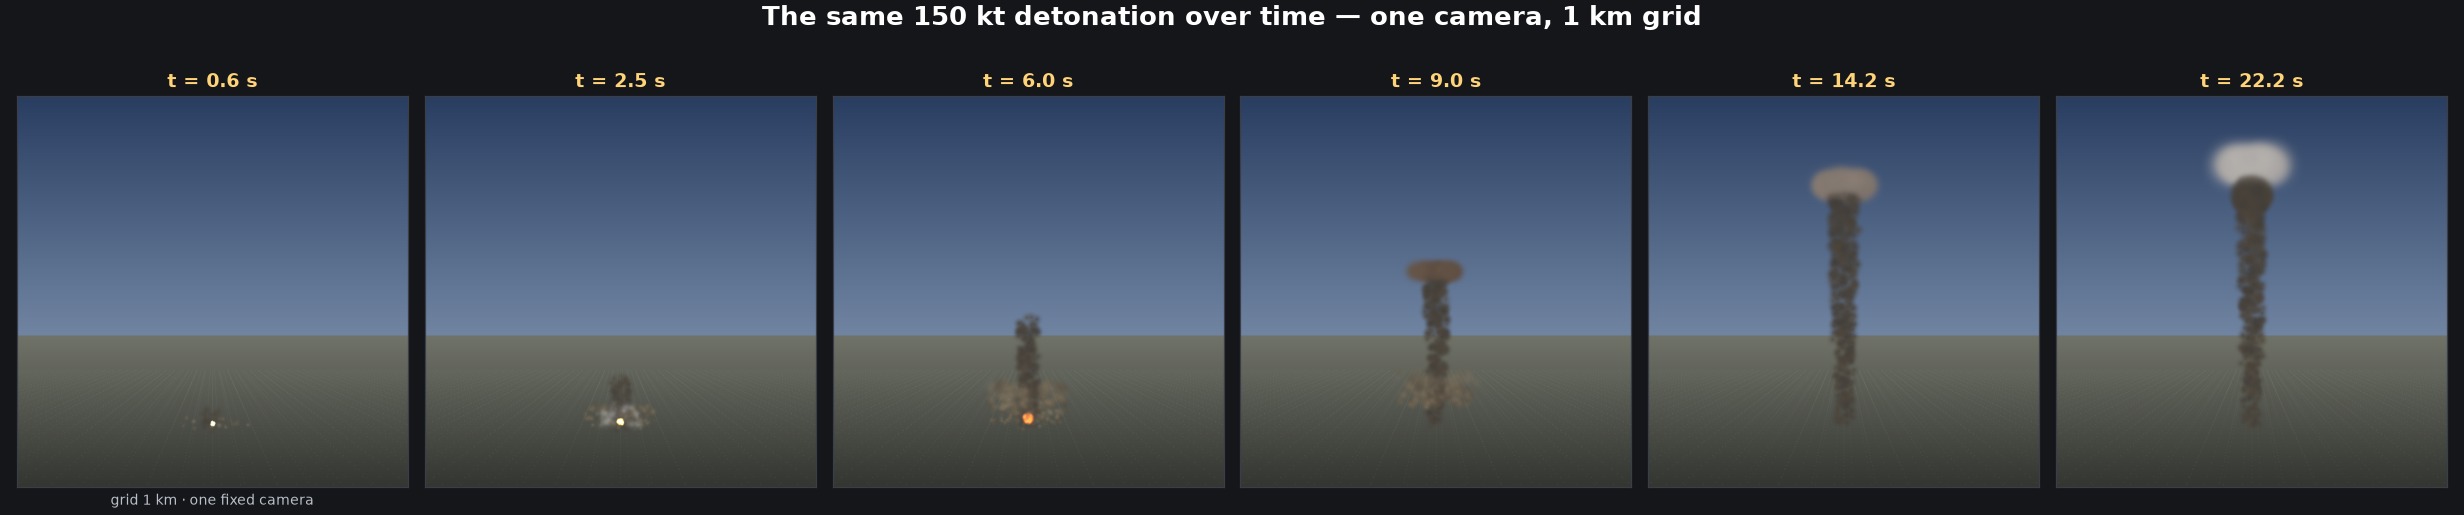
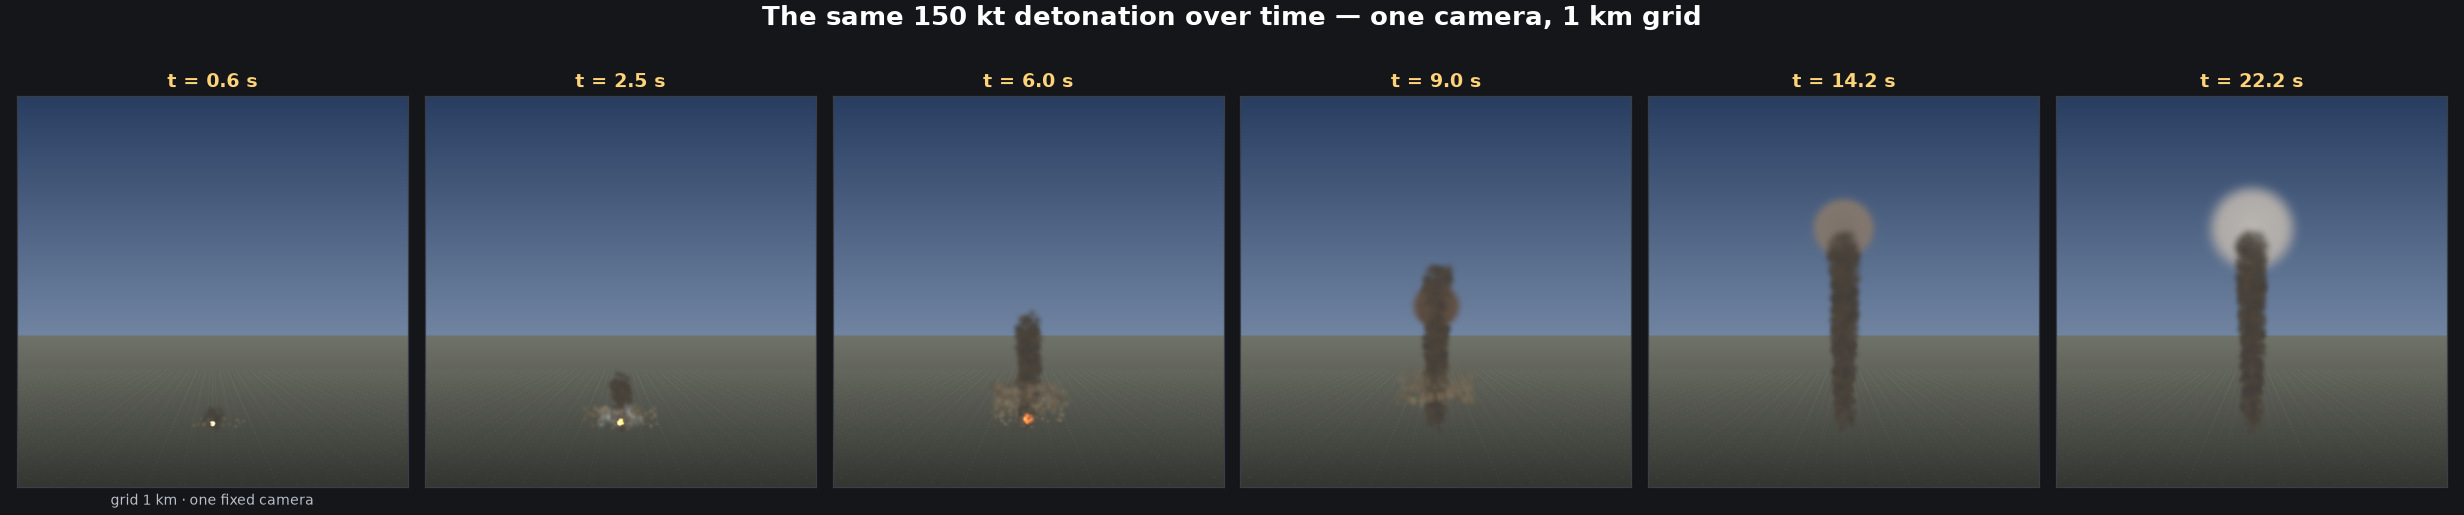
fix: put the canopy's base where the cloud actually stopped rising
The cap's depth was three tenths of the cloud top, a fixed fraction. Since its
width is also a function of the yield, that made the canopy exactly twice as
wide as it was deep at every yield - which is the one thing that cannot be true.
A 20 kt cap is a ball and a 10 Mt cap is a sheet, and the difference is not
decoration: it is where the cloud ran out of buoyancy.

Through the troposphere the air gets colder with height, so a fireball that
cools as it expands is still warmer than what surrounds it and keeps climbing.
At the tropopause the temperature stops falling and begins to rise; the cloud
goes on cooling while the air around it warms, loses its buoyancy within a
kilometre or two, and has nowhere to go but sideways. That lid is what spreads
a canopy flat, and it is what its base is.

So the base is half the cloud top, never above the 11 km mid-latitude
tropopause, and the cap is everything from there up. Against the measured tests
that gives base/top of 0.47 at 10.4 Mt and 0.40 at 50 Mt, where Ivy Mike was
0.46 and Castle Bravo 0.42; and it makes the canopy 0.9 times as wide as deep at
15 kt - a ball, which is what the 1945 photographs show - against 3.7 at 10 Mt.

Two consequences followed. The canopy is now centred half its depth below the
cloud top, so the cloud ends where the figures say it does instead of half a cap
above. And the column is spent as it enters the canopy rather than outliving the
[…]

Changed region(s): [[0.875, 0.2485, 0.9375, 0.6524], [0.7188, 0.3107, 0.7812, 0.4971], [0.5625, 0.4971, 0.5938, 0.6524]]

diff --git a/src/MissileDisaster/Game/Effects/NuclearMushroomFx.cs b/src/MissileDisaster/Game/Effects/NuclearMushroomFx.cs
@@ -41,10 +41,33 @@ namespace MissileDisaster.Game.Effects
         // canopy appears somewhere the column is not.
         private const float CapEmergeFraction = 0.55f;
 
-        // How deep the canopy is against the height of the whole cloud. Glasstone puts the base
-        // of the cap at about 0.7 of the altitude of its top, so the cap is the remaining three
-        // tenths - and that is a fraction of the column's height, not of the cap's own width.
-        private const float CapThicknessFraction = 0.30f;
+        // The tropopause, and the whole reason a mushroom is mushroom-shaped.
+        //
+        // Through the troposphere the air gets colder with height, so a fireball that cools as
+        // it expands is still warmer than what surrounds it and keeps climbing. At the
+        // tropopause the temperature stops falling and begins to rise, and the cloud runs into
+        // a lid: it goes on cooling as it climbs while the air around it warms, so its buoyancy
+        // is gone within a kilometre or two and it has nowhere left to go but sideways. That is
+        // what spreads the canopy out flat - the same lid that gives a thunderstorm its anvil.
+        //
+        // So the base of the cap is not a fixed fraction of anything. It is the tropopause, for
+        // any cloud with the energy to punch through - and about half the cloud's height for a
+        // small one that tops out inside the troposphere and stays a rising ball. Both are
+        // Glasstone's; the two together are why a 20 kt cap is round and a megaton cap is a
+        // sheet. A fixed fraction gets a 20 kt cap half again too flat and a 10 Mt cap twice too
+        // flat, which is exactly what it was doing.
+        //
+        // 11 km is the mid-latitude tropopause, where most of the charts the model is fitted to
+        // were measured. It is higher over the tropics - the Pacific tests punched through at
+        // nearer 17 km - which is part of why their canopies spread wider than the fit expects.
+        private const float TropopauseAltitude = 11000f;
+
+        // How far up the cloud the canopy's underside sits.
+        private static float CapBase(float top)
+        {
+            float half = top * 0.5f;
+            return half < TropopauseAltitude ? half : TropopauseAltitude;
+        }
 
         // How many particles the column is allowed at once. It has to stand for the whole shot,
         // so this is what its emission rate is solved from rather than a rate being picked and
@@ -56,9 +79,9 @@ namespace MissileDisaster.Game.Effects
         // rising into it.
         private const float CapLifetimeMin = 18f;
 
-        // How far up the column climbs, against the cloud top: to the underside of the canopy,
-        // which is half the cap's depth below its middle.
-        private const float StemTopFraction = 1f - CapThicknessFraction * 0.5f;
+        // How far into the canopy's depth the column runs before it is spent.
+        private const float StemIntoCapFraction = 0.3f;
+
 
         // Colours, following how a real detonation looks rather than a palette: white hot, then
         // sodium yellow, then orange, then the brown of nitrogen dioxide and lofted earth.
@@ -104,11 +127,26 @@ namespace MissileDisaster.Game.Effects
                 float capLifetime = Mathf.Max(CapLifetimeMin, d.RiseSeconds * 0.8f);
                 float showSeconds = d.RiseSeconds * CapEmergeFraction + capLifetime;
 
+                // Where the canopy sits: from its base up to the cloud top, with its particles
+                // centred half its depth below that top so the cloud ends where the figures say
+                // it does. The column climbs to the underside and stops there.
+                float capBase = CapBase(d.CloudTop);
+                float capDepth = d.CloudTop - capBase;
+                float capCentre = d.CloudTop - capDepth * 0.5f;
+                // The column runs a little way into the canopy's underside rather than stopping
+                // dead at it. A round billboard fades from its middle outwards, so a cap whose
+                // particles sit at its centre only looks solid across the middle of its depth:
+                // a column that stops at the nominal underside stops short of anything visible,
+                // and leaves a gap between the two. The stem's own fade is what keeps this from
+                // drawing a dark line up the front of the cap.
+                float stemTop = capBase + capDepth * StemIntoCapFraction;
+
                 CreateFireball(detonation, d.FireballRadius, d.FireballSeconds);
                 CreateCondensationDome(detonation, d.FireballRadius * CondensationRadiusFactor, d.FireballSeconds);
                 CreateGroundDust(groundZero, d.StemRadius, d.RiseSeconds);
-                CreateStem(groundZero, d.StemRadius, d.CloudTop, d.RiseSeconds, showSeconds);
-                CreateCap(groundZero, d.CapRadius, d.CloudTop, d.RiseSeconds, capLifetime, airburst);
+                CreateStem(groundZero, d.StemRadius, d.CloudTop, stemTop, d.RiseSeconds, showSeconds);
+                CreateCap(groundZero, d.CapRadius, capCentre, capDepth, d.CloudTop, d.RiseSeconds,
+                    capLifetime, airburst);
             }
             catch (Exception e)
             {
@@ -219,10 +257,15 @@ namespace MissileDisaster.Game.Effects
         /// cloud finished rising, after which the column drained away upwards and left the cap
         /// standing over clear air with its base several kilometres off the ground.
         /// </summary>
-        private static void CreateStem(Vector3 groundZero, float stemR, float top, float rise,
-            float showSeconds)
+        private static void CreateStem(Vector3 groundZero, float stemR, float top, float climbTo,
+            float rise, float showSeconds)
         {
-            float life = rise + 8f; // a particle stands well after it has finished rising
+            // A particle climbs into the canopy and is spent there. Letting it outlive the climb
+            // by much only piles every particle that ever rose into one dark knot under the cap,
+            // since they all stop at the same height; the column is a conveyor, and what reaches
+            // the top is absorbed. The tail is what fades it into the canopy's underside.
+            float climb = rise * (climbTo / top);
+            float life = climb * 1.35f;
             // Where the particles are born and how large they have grown by the end have to add
             // up to stemR, exactly as the canopy's do to capR. Emitting them over the full stemR
             // and then growing each one to nearly as wide again drew a column 1.9 times the one
@@ -247,9 +290,10 @@ namespace MissileDisaster.Game.Effects
             // a burst at the start and then a starved column once the ceiling is hit.
             ParticleBuilder.Stream(ps, StemMaxParticles * 0.95f / life);
             ParticleBuilder.Sphere(ps, emitRadius);
-            // It stops under the canopy rather than at the cloud top, so the column runs up into
-            // the cap's underside instead of out through the top of it.
-            ParticleBuilder.Rise(ps, ClimbThenSettle(rise * StemTopFraction, life), top / rise);
+            // It climbs at the rate the cloud climbs, and stops at the canopy's underside. Not
+            // at its middle: the column is dark and the canopy is pale, so a column that carries
+            // on into the cap is drawn straight through the front of it.
+            ParticleBuilder.Rise(ps, ClimbThenSettle(climb, life), top / rise);
             ParticleBuilder.Fade(ps,
                 new GradientAlphaKey(0.6f, 0f), new GradientAlphaKey(0.85f, 0.25f),
                 new GradientAlphaKey(0.7f, 0.7f), new GradientAlphaKey(0f, 1f));
@@ -269,37 +313,35 @@ namespace MissileDisaster.Game.Effects
         /// it used to be - hangs a finished canopy in clear air seconds before the stem arrives
         /// under it, which is the one thing that gives the effect away as particles.
         ///
-        /// How deep it is comes from the cloud top rather than from its own width. Glasstone puts
-        /// the base of the cap at about 0.7 of the altitude of its top, which makes the canopy
-        /// three tenths of the column deep whatever the yield. Taking the depth from the width
-        /// instead - which is what falls out of sizing the particles off capR - is right at
-        /// 150 kt only by coincidence, and by 10 Mt gives a canopy three times too deep: a ball
-        /// on a stick rather than the flattened lens a megaton cloud spreads out along the
-        /// tropopause.
+        /// How deep it is is decided by the tropopause - see TropopauseAltitude. Its own width has
+        /// nothing to say about it, and taking the depth from the width, which is what falls out
+        /// of sizing the particles off capR, gives a 10 Mt canopy three times too deep: a ball on
+        /// a stick rather than the sheet a megaton cloud spreads out along the tropopause.
         /// </summary>
-        private static void CreateCap(Vector3 groundZero, float capR, float top, float rise,
-            float lifetime, bool airburst)
+        private static void CreateCap(Vector3 groundZero, float capR, float capCentre,
+            float capDepth, float top, float rise, float lifetime, bool airburst)
         {
             const float emitFraction = 0.35f; // where the particles start, as a fraction of capR
             const float growth = 1.6f;        // how much larger a particle is by the end of its life
 
-            // The canopy is a flat lens: a round billboard grown to the cap's depth, spread
-            // across a horizontal disc until the three together - where it starts, how far it
-            // spreads and how large it has grown - add up to capR.
-            float thickness = top * CapThicknessFraction;
-            float spriteRadius = thickness * 0.5f;
+            // A round billboard grown to the cap's depth, spread across a horizontal disc until
+            // the three together - where it starts, how far it spreads and how large it has
+            // grown - add up to capR.
+            float spriteRadius = capDepth * 0.5f;
             float emitRadius = Mathf.Min(capR * emitFraction, Mathf.Max(0f, capR - spriteRadius));
             float driftDistance = Mathf.Max(0f, capR - emitRadius - spriteRadius);
             float driftSpeed = driftDistance / lifetime;
             // Enough of them to cover the disc several times over at any yield: a 10 Mt canopy is
-            // six times wider against its own depth than a 150 kt one, so a fixed count that
+            // four times wider against its own depth than a 20 kt one, so a fixed count that
             // reads as solid at one would be gauze at the other.
             float cover = capR / Mathf.Max(spriteRadius, 1f);
             int count = Mathf.Clamp(Mathf.RoundToInt(8f * cover * cover), 100, 400);
 
-            // The head of the column when the cap starts to swell, and the climb left to do.
+            // The head of the column when the cap starts to swell, and the climb left to do. It
+            // climbs at the cloud's own rate and settles at the canopy's middle.
             float delay = rise * CapEmergeFraction;
-            float birthHeight = top * CapEmergeFraction;
+            float birthHeight = capCentre * CapEmergeFraction;
+            float climbSeconds = (capCentre - birthHeight) / (top / rise);
 
             var go = ParticleBuilder.NewSystem("NuclearCap", groundZero + Vector3.up * birthHeight,
                 ParticleAssets.Smoke);
@@ -319,7 +361,7 @@ namespace MissileDisaster.Game.Effects
             // as cauliflower rather than as an airbrushed lens: a real cap is a crowd of lobes
             // of visibly different sizes. The largest is the one the depth was solved for, so
             // the spread runs downwards from it and the canopy keeps the depth it was given.
-            float sizeMax = thickness / growth;
+            float sizeMax = capDepth / growth;
             main.startSize = new ParticleSystem.MinMaxCurve(sizeMax * 0.55f, sizeMax);
             main.startColor = new ParticleSystem.MinMaxGradient(CapVapour, CapVapourShade);
             main.maxParticles = 500;
@@ -327,7 +369,7 @@ namespace MissileDisaster.Game.Effects
 
             ParticleBuilder.Burst(ps, count);
             ParticleBuilder.FlatDisc(ps, emitRadius);
-            ParticleBuilder.Rise(ps, ClimbThenSettle(rise - delay, lifetime), top / rise);
+            ParticleBuilder.Rise(ps, ClimbThenSettle(climbSeconds, lifetime), top / rise);
             ParticleBuilder.Colour(ps, CapGradient(airburst));
             ParticleBuilder.SizeCurve(ps, 0.7f, growth);
             ParticleBuilder.PlayAndDestroy(go, delay + lifetime + 2f);

diff --git a/tools/effect-preview/fxlib.py b/tools/effect-preview/fxlib.py
@@ -219,7 +219,9 @@ def show_seconds(d):
 
 def stage_stem(d, t, origin=(0, 0, 0)):
     stemR, top, rise = d["stem"], d["top"], d["rise"]
-    life = rise + 8.0
+    g = cap_geometry(d)
+    climb = rise * ((g["base"] + (g["centre"] - g["base"]) * 0.6) / top)
+    life = climb * 1.35
     born, age = _stream(STEM_MAX * 0.95 / life, show_seconds(d), t, life)
     n = len(age)
     if n == 0: return None
@@ -229,7 +231,7 @@ def stage_stem(d, t, origin=(0, 0, 0)):
     step = np.array([travel(stemR * 0.02, a) for a in age])
     p = p + v * step[:, None]
     # climbs to the underside of the canopy and stops, instead of out through the top of it
-    p[:, 1] += np.array([_climb(a, rise * (1 - THICKNESS * 0.5), life, top / rise) for a in age])
+    p[:, 1] += np.array([_climb(a, climb, life, top / rise) for a in age])
     u = age / life
     alpha = np.array([ramp([(0.0, 0.6), (0.25, 0.85), (0.7, 0.7), (1.0, 0.0)], x) for x in u])
     base = np.array([mix(DUST_DARK[:3], CAP_COOL[:3], x) for x in rng.random(n)])
@@ -283,7 +285,10 @@ def stage_cap_thick(d, t, origin=(0, 0, 0), n=100):
     u = age / lifetime
     p, v = in_cone(n, capR * emit_f, 62.0)
     p = p + v * (drift * age)
-    p[:, 1] += top * EMERGE + _climb(age, rise - delay, lifetime, top / rise)
+    # placed exactly as the new one is, so the figure isolates the depth and nothing else
+    centre = top - capR * 1.01 * 0.5
+    birth = centre * EMERGE
+    p[:, 1] += birth + _climb(age, (centre - birth) / (top / rise), lifetime, top / rise)
     p[:, 1] -= 0.5 * 9.81 * 0.015 * age ** 2
     alpha = ramp([(0.0, 0.6), (0.25, 0.85), (0.7, 0.7), (1.0, 0.0)], u) * 0.72
     base = np.array([mix(CAP_WARM[:3], CAP_COOL[:3], x) for x in rng.random(n)])
@@ -292,7 +297,13 @@ def stage_cap_thick(d, t, origin=(0, 0, 0), n=100):
     return p + np.array(origin), np.full(n, size), rgba, False
 
 
-THICKNESS = 0.30   # CapThicknessFraction - Glasstone: the cap's base at 0.7 of its top
+TROPOPAUSE = 11000.0   # TropopauseAltitude - the lid the canopy spreads out under
+
+
+def cap_base(top):
+    """The canopy's underside: the tropopause once the cloud punches through, half the
+    cloud's height while it is still inside the troposphere."""
+    return min(top * 0.5, TROPOPAUSE)
 
 
 def in_disc(n, radius):
@@ -308,14 +319,16 @@ def cap_geometry(d):
     capR, top = d["cap"], d["top"]
     lifetime = max(18.0, d["rise"] * 0.8)
     growth = 1.6
-    thickness = top * THICKNESS
+    base = cap_base(top)
+    thickness = top - base
+    centre = top - thickness * 0.5
     sprite_r = thickness * 0.5
     emit_r = min(capR * 0.35, max(0.0, capR - sprite_r))
     drift = max(0.0, capR - emit_r - sprite_r)
     cover = capR / max(sprite_r, 1.0)
     count = int(min(400, max(100, round(8 * cover * cover))))
     return dict(lifetime=lifetime, growth=growth, thickness=thickness, sprite_r=sprite_r,
-                emit_r=emit_r, drift=drift, count=count)
+                emit_r=emit_r, drift=drift, count=count, base=base, centre=centre)
 
 
 def stage_cap(d, t, origin=(0, 0, 0), n=None, airburst=False):
@@ -332,7 +345,8 @@ def stage_cap(d, t, origin=(0, 0, 0), n=None, airburst=False):
     speed = rng.random(n) * (g["drift"] / lifetime)
     p = p + v * (speed * age)[:, None]
     # born at the head of the column, riding the rest of the way up with it
-    p[:, 1] += top * EMERGE + _climb(age, rise - delay, lifetime, top / rise)
+    birth = g["centre"] * EMERGE
+    p[:, 1] += birth + _climb(age, (g["centre"] - birth) / (top / rise), lifetime, top / rise)
     p[:, 1] -= 0.5 * 9.81 * 0.015 * age ** 2             # the rim droops
     alpha = ramp([(0.0, 0.6), (0.25, 0.85), (0.7, 0.7), (1.0, 0.0)], u) * 0.72
     born = CAP_TINT_AIR if airburst else CAP_TINT_DUST

diff --git a/tools/effect-preview/render.py b/tools/effect-preview/render.py
@@ -232,15 +232,14 @@ def render_cap_shape(w=660, h=620):
             if row == 0:
                 ax.set_title(f"{name} — {kt:,} kt\ncap {km(d['cap']*2)} wide, top {km(d['top'])}",
                              color="#ffd479", fontsize=12, fontweight="bold", pad=8)
-            ax.set_xlabel(f"cap depth {km(thick)}   ({thick/(0.3*d['top']):.1f}× Glasstone's "
-                          f"{km(0.3*d['top'])})", fontsize=9.5,
-                          color="#d9a06a" if row == 0 else "#8fd6a6")
+            ax.set_xlabel(f"cap depth {km(thick)} · {d['cap']*2/thick:.1f}× wider than deep",
+                          fontsize=9.5, color="#d9a06a" if row == 0 else "#8fd6a6")
     for row, label, colour in (
             (0, "BEFORE — depth from the cap's own width", "#d9a06a"),
-            (1, "AFTER — depth from the cloud top (0.3 × top)", "#8fd6a6")):
+            (1, "AFTER — from the tropopause: base at half the top", "#8fd6a6")):
         axes[row, 0].text(-0.09, 0.5, label, transform=axes[row, 0].transAxes, rotation=90,
                           va="center", ha="center", fontsize=11.5, fontweight="bold", color=colour)
-    fig.suptitle("How deep the canopy is — Glasstone puts its base at 0.7 of the cloud top",
+    fig.suptitle("How deep the canopy is — its base is where the cloud stops rising",
                  color="#ffffff", fontsize=18, fontweight="bold", y=0.98)
     fig.tight_layout(rect=[0.012, 0.01, 1, 0.93])
     fig.subplots_adjust(hspace=0.16)

diff --git a/docs/effects/README.md b/docs/effects/README.md
@@ -36,10 +36,39 @@ top it hung finished in clear air for several seconds before the stem arrived un
 
 ## `cap-shape.png`
 
-Why the canopy's depth now comes from the cloud top rather than from its own width. Glasstone
-puts the base of the cap at about 0.7 of the altitude of its top, so a cap is three tenths of
-the column deep at any yield. Sizing its particles off the cap radius instead happens to be
-right at 150 kt and is 3.3× too deep by 10 Mt — a ball on a stick rather than a lens.
+Why the canopy's depth comes from where the cloud stopped rising rather than from its own
+width. Sizing the particles off the cap radius made the cap exactly twice as wide as it was
+deep at *every* yield — the one thing that cannot be true, since a 20 kt cap is a ball and a
+10 Mt cap is a sheet.
+
+## The tropopause, and why a mushroom is mushroom-shaped
+
+Through the troposphere the air gets colder with height, so a fireball that cools as it expands
+is still warmer than what surrounds it and keeps climbing. At the tropopause the temperature
+stops falling and begins to rise: the cloud goes on cooling as it climbs while the air around it
+warms, loses its buoyancy within a kilometre or two, and has nowhere left to go but sideways.
+That lid is what spreads the canopy flat — the same one that gives a thunderstorm its anvil.
+
+So the canopy's base is where the cloud stopped rising, and its depth is everything from there
+to the top. `NuclearMushroomFx.CapBase` puts it at half the cloud top, never above the 11 km
+mid-latitude tropopause. That reproduces what was measured:
+
+| | cloud top | cap base | base ÷ top |
+|---|---|---|---|
+| Ivy Mike, measured | 37 km | ≈ 17 km (tropical tropopause) | 0.46 |
+| Castle Bravo, measured | 40 km | ≈ 17 km | 0.42 |
+| the model at 10.4 Mt | 23.2 km | 11.0 km | 0.47 |
+| the model at 50 Mt | 27.3 km | 11.0 km | 0.40 |
+| the model at 15–22 kt | 6.6–7.5 km | half the top | 0.50 |
+
+and it is why the model's canopy is round at 15 kt (0.9× as wide as deep, which is what the
+1945 photographs show) and a sheet at 10 Mt (3.7×).
+
+The lid is in the cloud-height fit too, not just the cap. Differentiating
+`NuclearCloud.CloudTop`, the height goes as `W^0.33` up to about 20 kt — free rise through the
+troposphere — flattens to `W^0.16` in the megaton range as the tropopause brakes it, and steepens
+again to `W^0.31` above 10 Mt, where a cloud has the energy to punch through and rise freely in
+the stratosphere. Glasstone's charts have that flattening in them, and the fit inherited it.
 
 ## Against the measured tests
 
